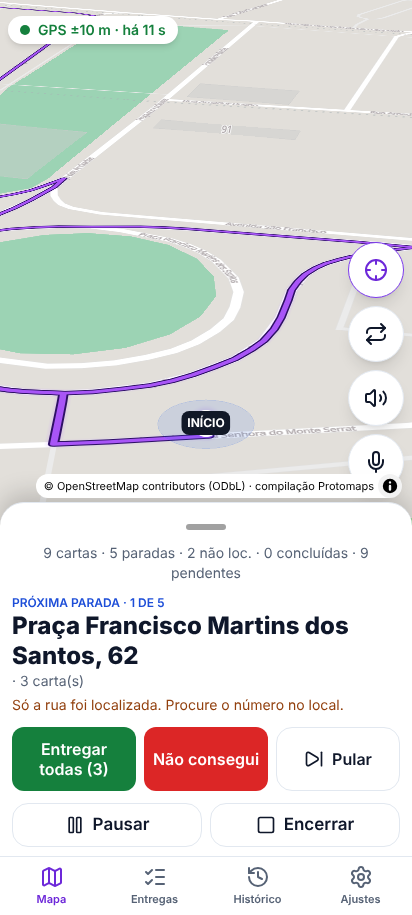
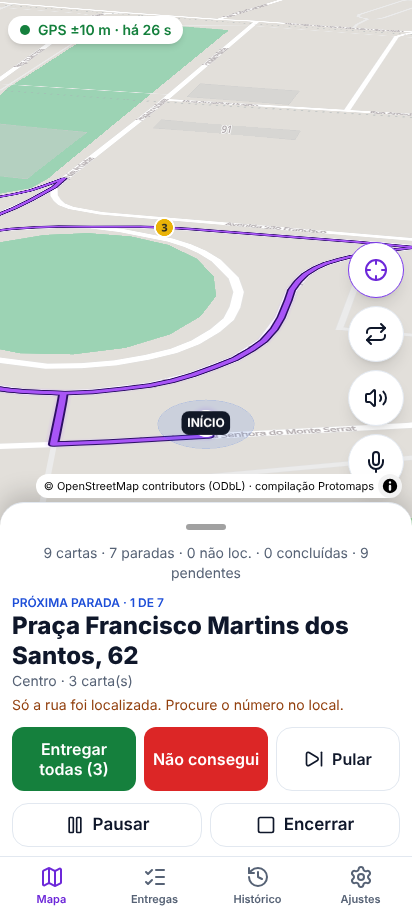
docs: auditoria 2.1, changelog
Claude-Session: https://claude.ai/code/session_015CedTWmR5xexhe4DhTTCww

diff --git a/mobile/src/ui/useNavigation.ts b/mobile/src/ui/useNavigation.ts
@@ -157,7 +157,8 @@ export function useNavigation(onRerouted?: (r: Route) => void) {
   const locate = useCallback(async (opts: { ask?: boolean } = {}) => {
     const perms = await nav.permissions();
     let loc = perms.location;
-    if (loc !== "granted") {
+    // navegador: o próprio prompt do browser aparece ao iniciar; só o Android tem estado de permissão confiável para o fluxo abaixo
+    if (loc !== "granted" && nav.isNative()) {
       const asked = (() => { try { return localStorage.getItem(ASKED_KEY) === "1"; } catch { return false; } })();
       if (loc === "denied" || (asked && !opts.ask)) { setUi((u) => ({ ...u, gps: loc === "denied" ? "denied" : "needs_permission", gpsMsg: "" })); log("gps", "sem_permissao", { loc }); return; }
       if (!opts.ask && !nav.isNative() && loc === "prompt") { /* navegador: o próprio prompt aparece ao iniciar */ }

diff --git a/docs/AUDITORIA_ROTA_SANTOS_2_1.md b/docs/AUDITORIA_ROTA_SANTOS_2_1.md
@@ -1,0 +1,31 @@
+# Auditoria Rota Santos 2.1
+
+Base: APK `rota-santos-2.0.1-DEBUG.apk` (SHA-256 `4f8e4dbe…3ff5`) comparado ao código. UI Pack 2.1 (tokens, componentes, textos de recompensa) usado como direção visual; nenhum asset de terceiros foi copiado.
+
+**Aviso de verificação.** Nada abaixo foi testado em **Android** (aparelho ou emulador): o emulador desta máquina não tem KVM e o renderer da WebView 113 cai (veja `TESTES_VISUAIS_ANDROID_ROTA_SANTOS.md`). As evidências são do **Chromium** (viewport 412×915, MapLibre real, WebGL por software) e de testes unitários/JVM. As capturas estão em `docs/evidencias-chromium-2_1/`.
+
+## Defeitos, causa e correção
+| # | Defeito (do relato) | Causa raiz comprovada | Correção | Prova |
+|---|---|---|---|---|
+| 1 | Rota continua no mapa após concluir/encerrar | Não havia um dono do estado: cada componente decidia o que desenhar (rota, início, marcadores, CTA) a partir de variáveis soltas; “Encerrar” só parava o GPS | `core/session.ts › deriveView()`: **uma** função decide a fase (`empty/unplanned/planned/navigating/paused/ended/completed`) e o que o mapa pode desenhar. `RouteMap` recebe `route/start/ahead` nulos fora das fases ativas. `endSession` (some a rota, preserva cartas, permite retomar) e `finishRoute`; efeito que encerra a navegação quando as paradas acabam | `tests/session_progress.test.ts` (8) + E2E: `data-route="off"` ao concluir **e** ao encerrar; capturas 10, 11, 12 |
+| 2 | “Iniciar navegação” em estado incoerente | CTA dependia só de “há rota” | `canStart` só em `planned`; em `ended` aparece “Retomar rota”; em `completed` não há CTA de navegação | E2E: 0 botões “Iniciar navegação” após concluir/encerrar |
+| 3 | Navegação sem “primeira pessoa” cartográfica | Câmera 3D tinha inclinação mas o usuário ficava no centro e o zoom era fixo | Navegação imersiva: pitch 60°, rumo = direção do movimento (parado não gira), usuário no terço inferior (padding superior ~42%), zoom dinâmico (devagar/perto da manobra = mais perto), alternância 2D/3D, gesto livre com retorno automático em 8 s | E2E lê a câmera real do MapLibre: `zoom 18.4, pitch 60°` em 3D e `pitch 0°` em 2D |
+| 4 | Marcador de usuário fraco | Ponto azul pequeno | Marcador roxo com halo, anel de precisão e “última posição” cinza quando não há fix | capturas 01, 10 |
+| 5 | Importação dependia de separador/cabeçalho | Texto livre caía em colunas simples | `core/freetext.ts` (FreeTextAddressResolver) integrado ao importador; ver `IMPORTACAO_INTELIGENTE_ENDERECOS.md` | `tests/freetext.test.ts` (15) + `freetext_import.test.ts` (5) + E2E com 9 linhas livres |
+| 6 | Santos/SP e proximidade | Consulta sem viés; escolha só por confiança do provedor | `core/rank.ts`: pontuação por município/recorte/bairro/CEP + proximidade do aparelho; consulta com `viewbox` de Santos; ambiguidade → revisão assistida com alternativa | `tests/rank.test.ts` (6) + E2E (todas as consultas com viewbox, city=Santos, state=SP) |
+| 7 | **Achado desta rodada:** a geocodificação em segundo plano sobrescrevia posições importadas/portaria | `resolve()` só protegia `exact/interpolated/manual`; posição “test”/portaria era regeocodificada e virava “não localizada” (rota com 4 de 9 cartas) | `resolve()` também respeita `entrance` e `test`; o teste agora espera o fim da geocodificação | E2E determinístico: 2 execuções idênticas (9 entregues, melhor sequência 7) |
+| 8 | **Achado nas capturas:** bloco “Próxima parada” duplicado na navegação | Reescrita do painel por fase duplicou o trecho | Removida a duplicação | captura 07 |
+| 9 | **Achado nas capturas:** endereços sem acento (“Praca”, “Feijo”) | `display` era montado do texto normalizado (sem acento) | `prettyKeep()`: exibição com o texto original acentuado; chave/consulta continuam sem acento | `tests/display_accents.test.ts` |
+| 10 | Texto secundário com contraste 4,44:1 | `--muted` mais claro que o fundo novo | `--muted: #566275` | axe sem violações nas 4 telas |
+| 11 | Pós-entrega pouco gratificante | — | `core/progress.ts` + `GameUi`: toast “Muito bem!”, restantes, parada X de Y, +XP, sequência, nível, som opcional; falha/pulo zeram a sequência sem punir; Desfazer reverte; tela de conclusão com resumo | `tests/session_progress.test.ts`, capturas 09, 10 |
+| 12 | Origem manual × GPS | Ajustes só tinha o ponto manual | Ajustes → “De onde a rota começa”: localização atual (padrão) / ponto manual / última posição, cada uma com rótulo próprio na rota | captura 15 |
+| 13 | Registros antigos “106, 106” | Ver `AUDITORIA_ROTA_SANTOS_2_0_1.md` | Mantido; reprocessamento seguro na aba Entregas | `tests/legacy.test.ts` |
+
+## Arquitetura (responsabilidades)
+`LocationService` → `ui/useNavigation.ts` + `native/rotaNav.ts` · `NavigationSessionService`/`RouteOverlayController` → `core/session.ts` (+ `RouteMap`) · `RoutingService` → `core/plan.ts`, `router.ts`, `navroute.ts` · `ImportParser` → `schema.ts` · `FreeTextAddressResolver` → `freetext.ts` · `GeocodingService` → `geocode.ts`, `rank.ts` · `DuplicateDetector` → `importer.ts` · `AddressRepairService` → `service.ts` (`diagnoseLegacy/reprocessLegacy`) · `DeliveryProgressService`/`GameFeedbackService` → `progress.ts`, `ui/GameUi.tsx` · `OfflineMapService` → `ui/offlineMap.ts` · `AndroidNavigationBridge` → plugin `RotaNav`.
+
+## Limitações restantes
+- **Sem teste em Android** (GPS real, voz, serviço em primeiro plano, notificação, tela bloqueada, retomada após o sistema matar o app, consumo de bateria).
+- Contas antigas: endereços já gravados continuam sem acento na exibição (só importações novas).
+- Geocodificação em escala exige provedor próprio/contratado; o Nominatim público segue limitado por política.
+- O XP é um indicador operacional local; não há metas configuráveis além do padrão (lote) nesta versão.

diff --git a/docs/CHANGELOG.md b/docs/CHANGELOG.md
@@ -1,0 +1,14 @@
+# Changelog
+
+## 2.1.0 (versionCode 6)
+- Sessão por fases: a rota **some** do mapa ao concluir ou encerrar; “Retomar rota”, “Recalcular”, “Concluir sessão”; sem “Iniciar navegação” em estado incoerente.
+- Navegação imersiva (pitch 60°, rumo do movimento, usuário no terço inferior, zoom dinâmico, 2D/3D, câmera livre com retorno).
+- Importação em **texto livre** (sem separador/cabeçalho), escopo Santos/SP, desempate por proximidade, revisão assistida com alternativa.
+- Recompensas curtas (XP, sequência, restantes), tela de conclusão, som opcional.
+- Ajustes: origem da rota (atual / manual / última posição); estado do pacote offline.
+- Acentos preservados na exibição; contraste; marcador de usuário; painel compacto.
+- Correções: geocodificação não sobrescreve posição importada/portaria; painel duplicado; GPS “obsoleto” só no nativo.
+## 2.0.1
+- Mapa em branco (contêiner de altura 0), GPS automático, perfil de pedestre, bloqueio de “106, 106”.
+## 2.0.0
+- Mapa como tela principal, navegação nativa (voz pt-BR, serviço em primeiro plano), importação por conteúdo.
